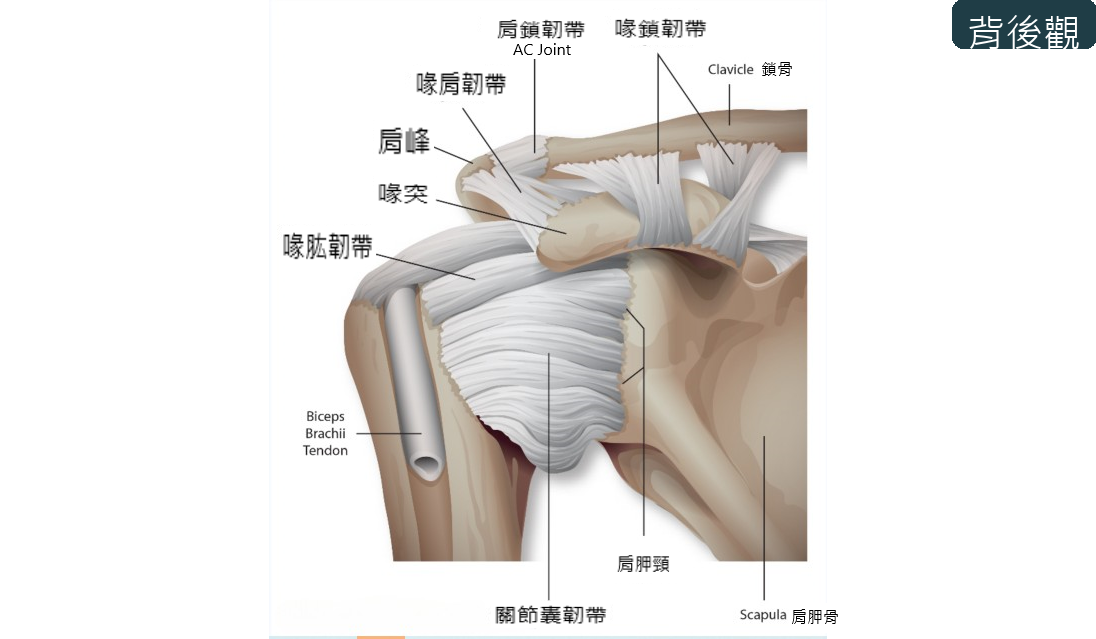
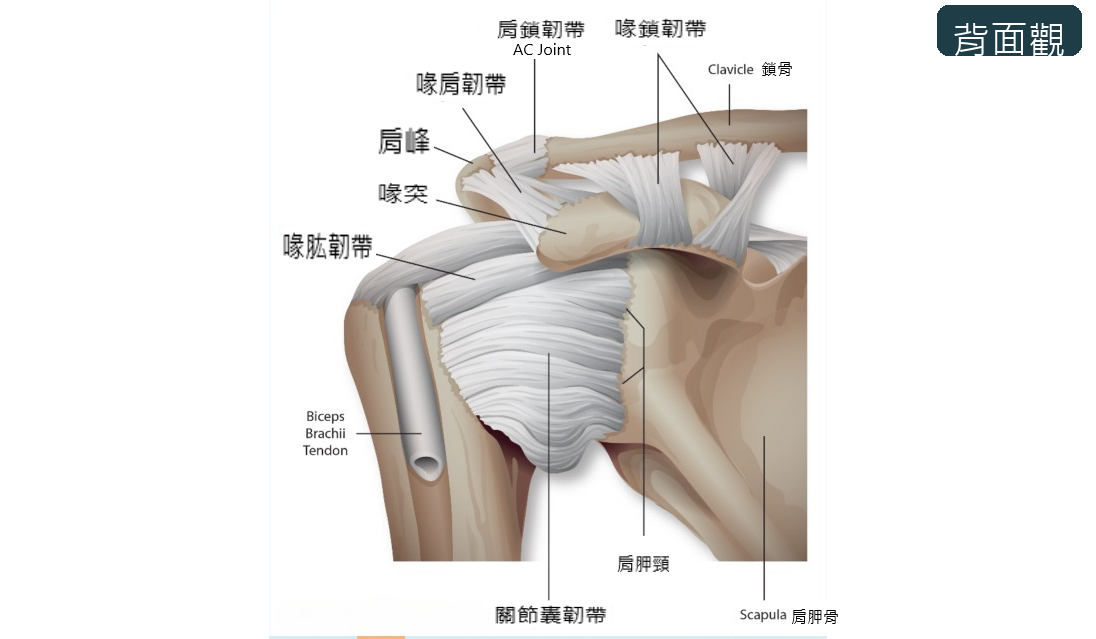
Add eye muscle reference image

Changed region(s): [[0.8376, 0.0, 1.0, 0.0892]]

diff --git a/index.html b/index.html
@@ -217,6 +217,11 @@ const REGIONS = [
     image: 'photos/Hyoid Muscles.png'
   },
   {
+    id: 'eye',
+    name: '眼部肌肉',
+    image: 'photos/Eye Muscle.png'
+  },
+  {
     id: 'shoulder',
     name: '肩部韌帶',
     image: 'photos/Shoulder Ligament.png'